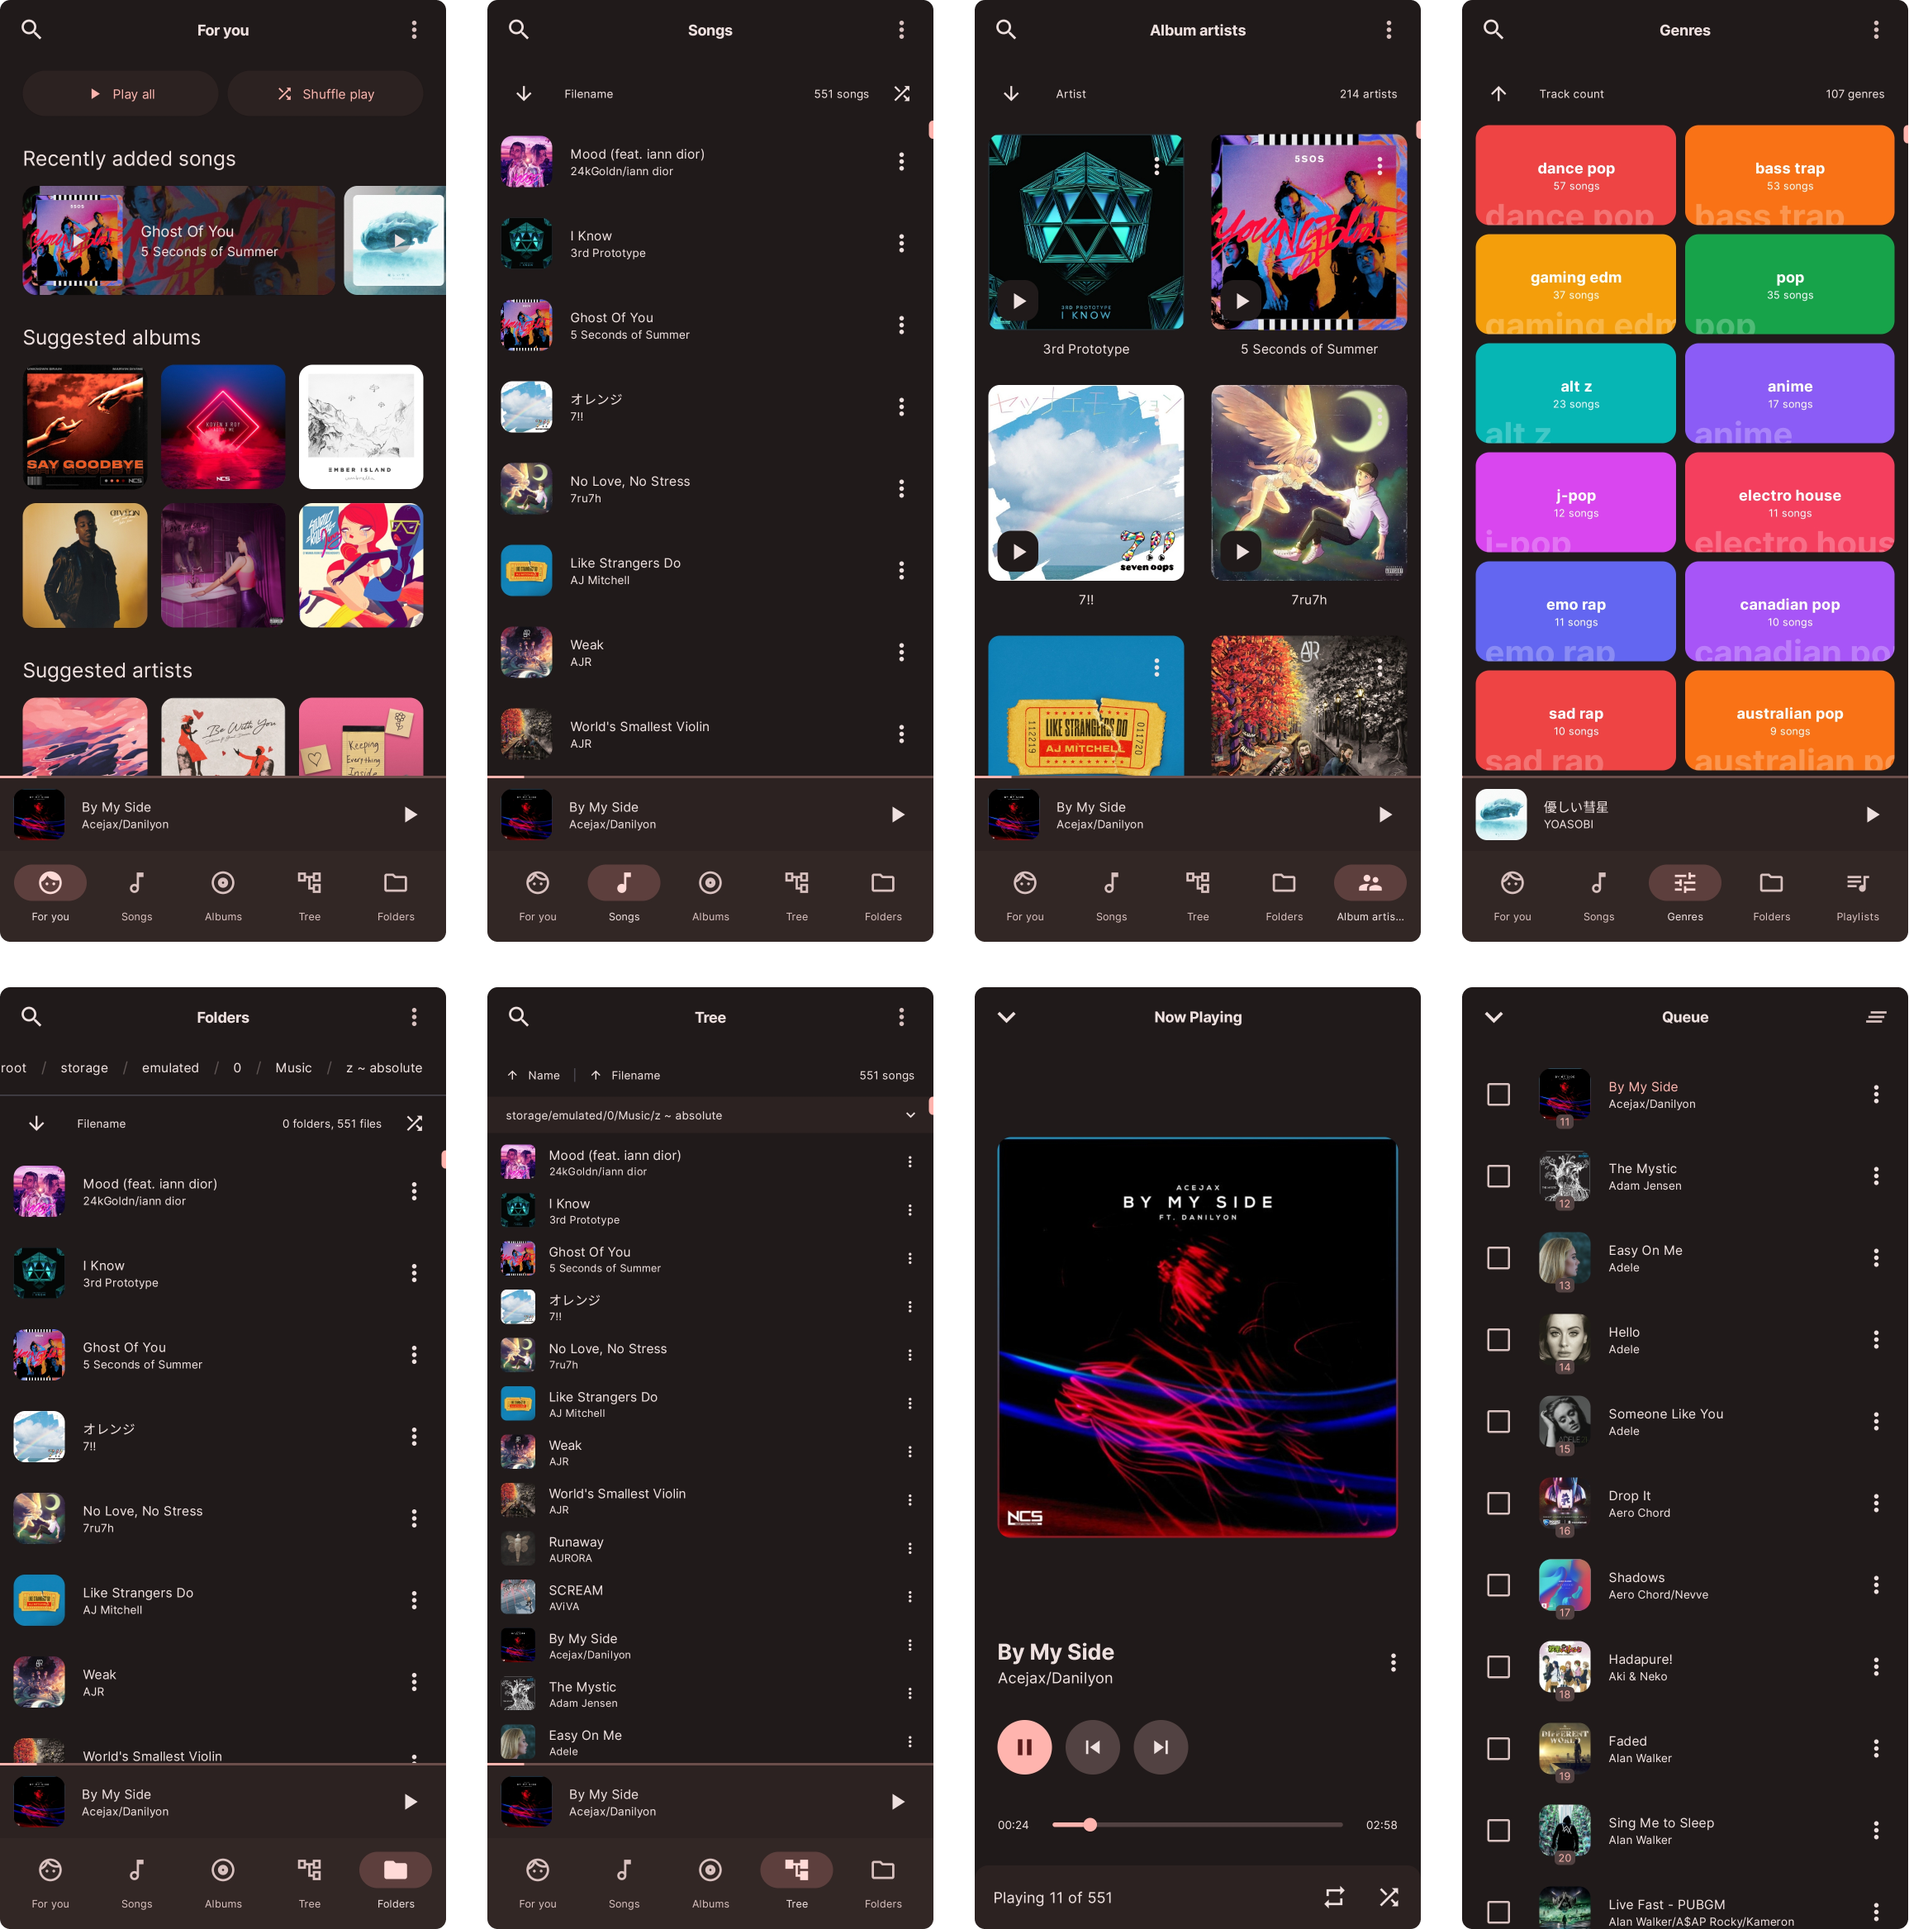
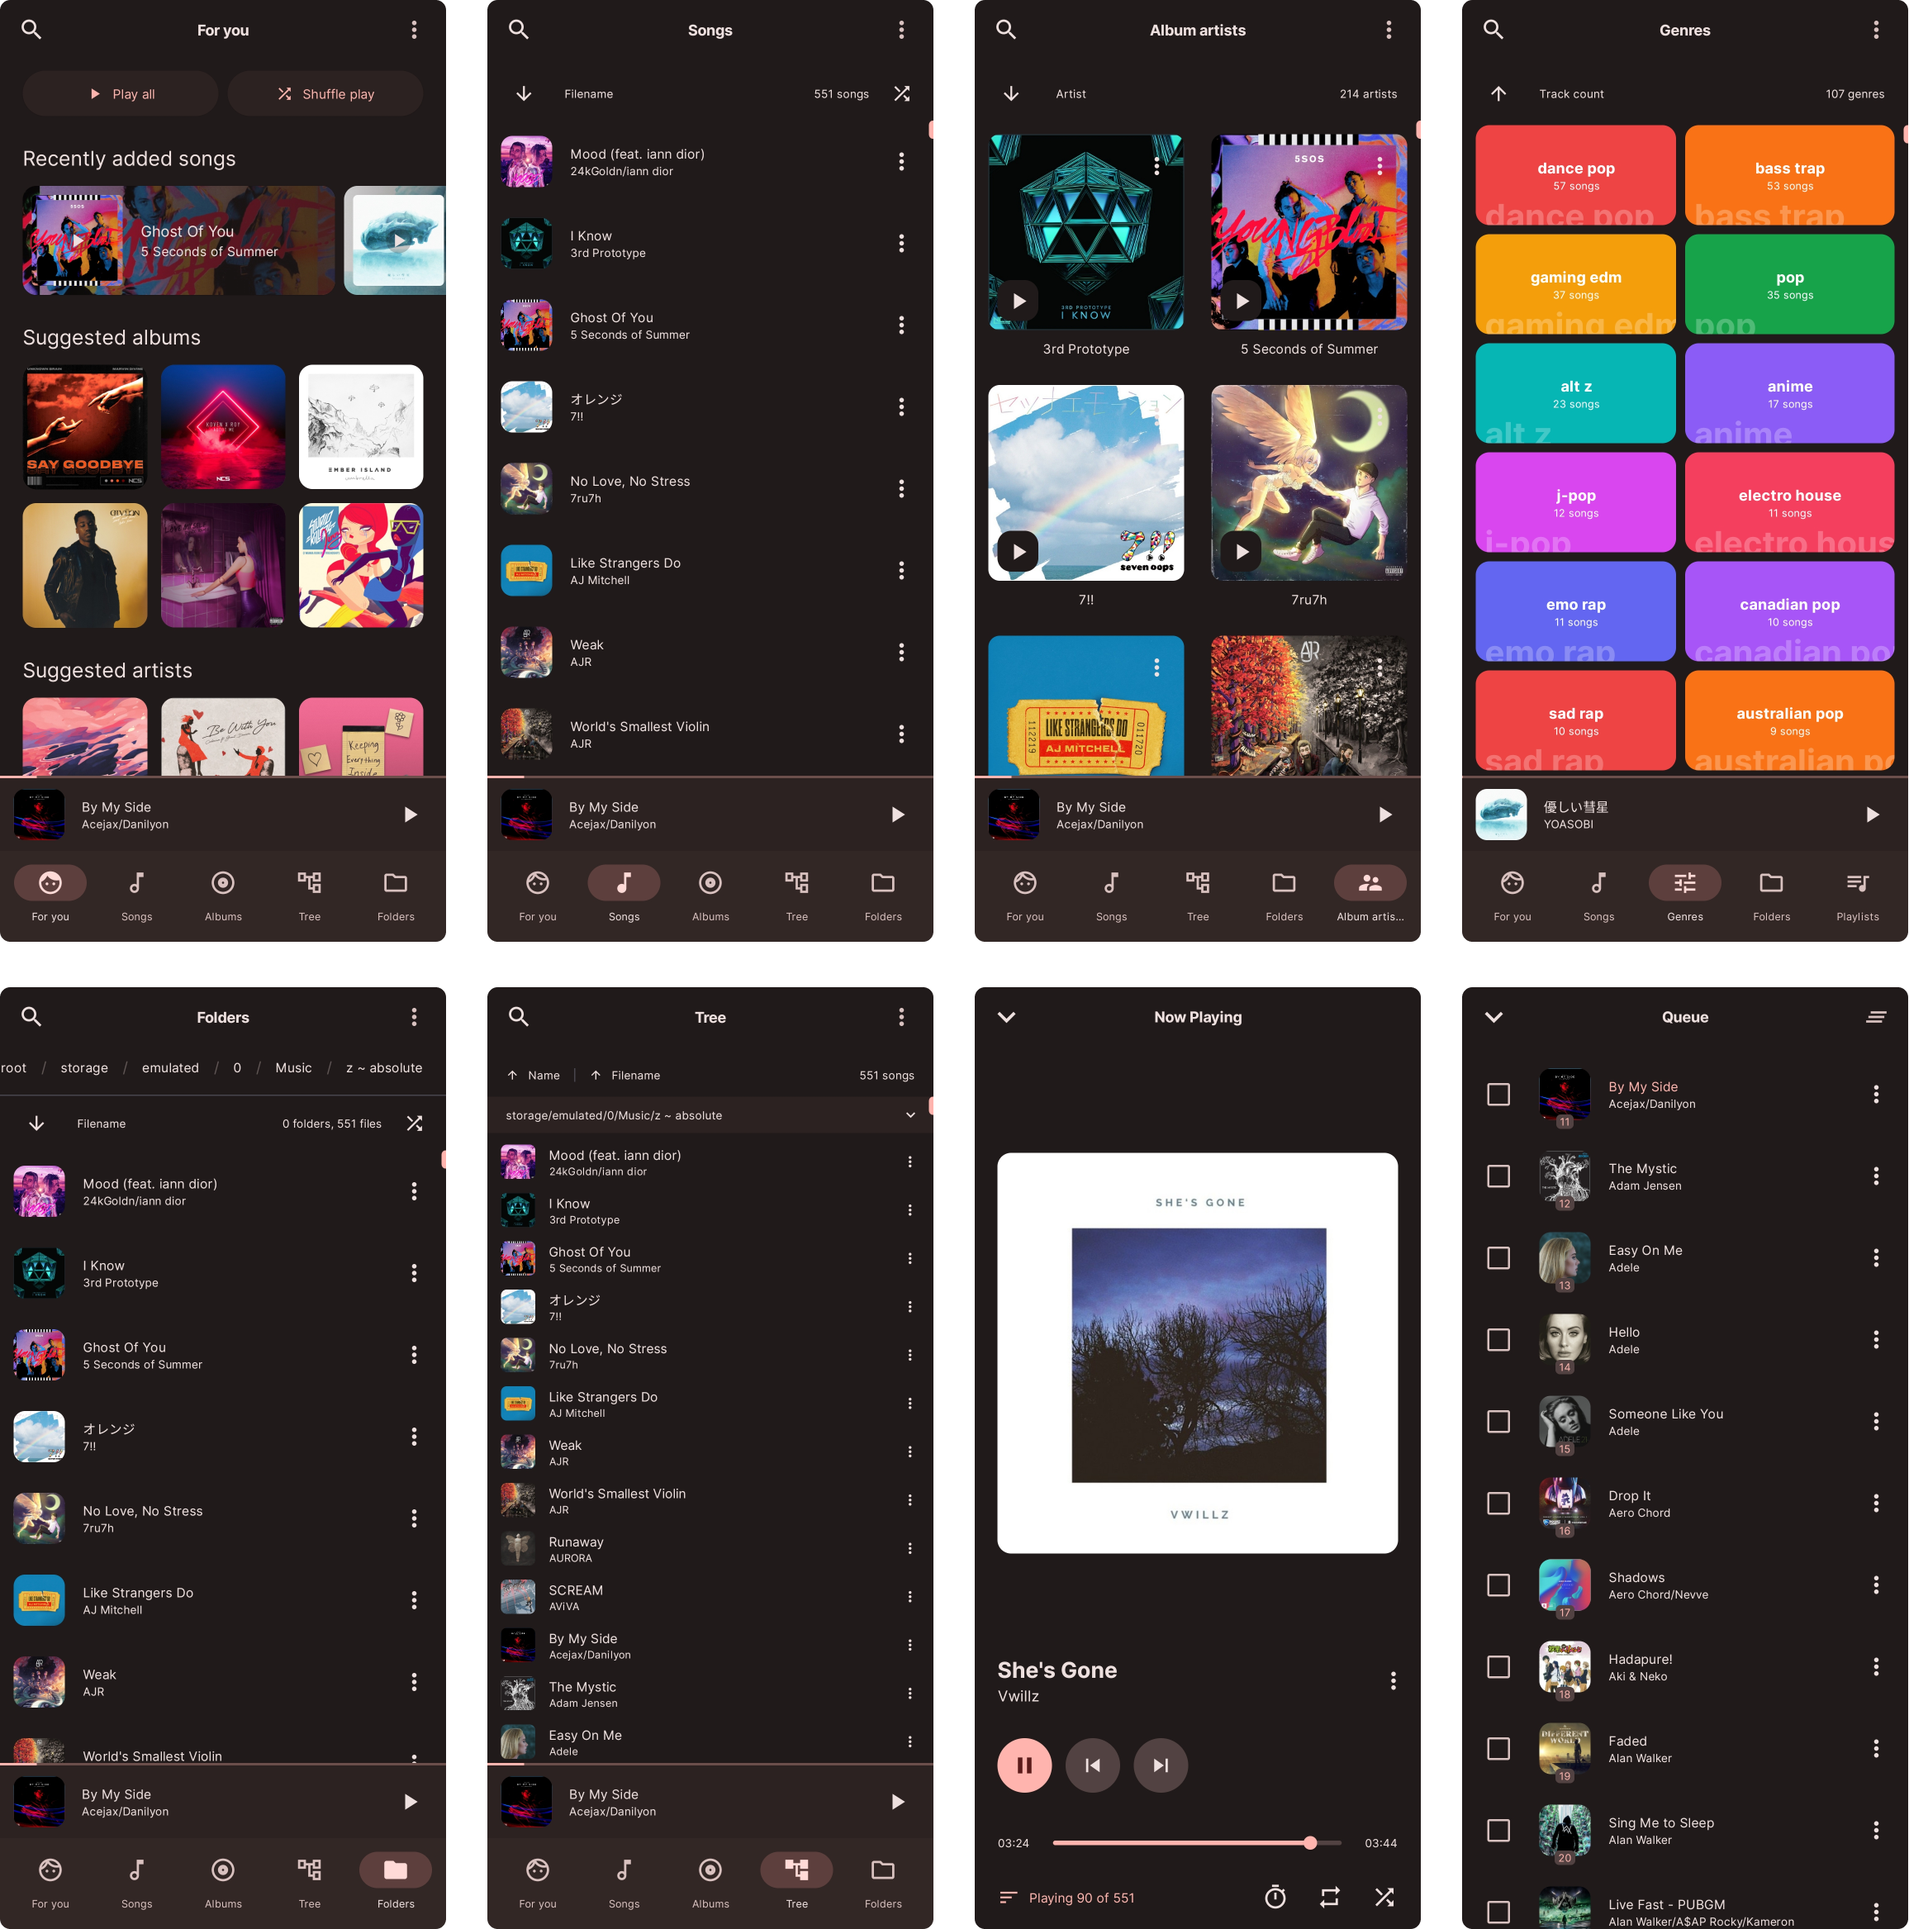
fix: restored queue shuffle

Changed region(s): [[0.4985, 0.5859, 0.7477, 0.9867]]

diff --git a/app/src/main/java/io/github/zyrouge/symphony/services/radio/RadioQueue.kt b/app/src/main/java/io/github/zyrouge/symphony/services/radio/RadioQueue.kt
@@ -159,13 +159,15 @@ class RadioQueue(private val symphony: Symphony) {
         val playedDuration: Int,
         val originalQueue: List<Long>,
         val currentQueue: List<Long>,
+        val shuffled: Boolean,
     ) {
         fun serialize() =
             listOf(
                 currentSongIndex.toString(),
                 playedDuration.toString(),
                 originalQueue.joinToString(","),
-                currentQueue.joinToString(",")
+                currentQueue.joinToString(","),
+                shuffled.toString(),
             ).joinToString(";")
 
         companion object {
@@ -175,6 +177,7 @@ class RadioQueue(private val symphony: Symphony) {
                     playedDuration = playbackPosition.played,
                     originalQueue = queue.originalQueue,
                     currentQueue = queue.currentQueue,
+                    shuffled = queue.currentShuffleMode,
                 )
 
             fun parse(data: String): Serialized? {
@@ -185,6 +188,7 @@ class RadioQueue(private val symphony: Symphony) {
                         playedDuration = semi[1].toInt(),
                         originalQueue = semi[2].split(",").map { it.toLong() },
                         currentQueue = semi[3].split(",").map { it.toLong() },
+                        shuffled = semi[4].toBoolean(),
                     )
                 } catch (_: Exception) {
                 }
@@ -198,6 +202,7 @@ class RadioQueue(private val symphony: Symphony) {
             symphony.radio.stop(ended = false)
             originalQueue.swap(serialized.originalQueue)
             currentQueue.swap(serialized.currentQueue)
+            currentShuffleMode = serialized.shuffled
             afterAdd(
                 Radio.PlayOptions(
                     index = serialized.currentSongIndex,

diff --git a/app/src/main/java/io/github/zyrouge/symphony/services/radio/Radio.kt b/app/src/main/java/io/github/zyrouge/symphony/services/radio/Radio.kt
@@ -299,7 +299,8 @@ class Radio(private val symphony: Symphony) : SymphonyHooks {
                     currentSongIndex = currentSongIndex,
                     playedDuration = playedDuration,
                     originalQueue = originalQueue,
-                    currentQueue = currentQueue
+                    currentQueue = currentQueue,
+                    shuffled = previous.shuffled,
                 )
             )
         }
